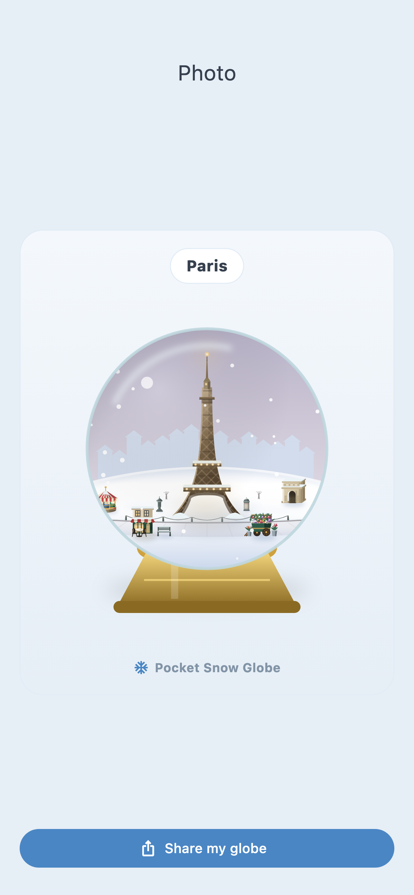
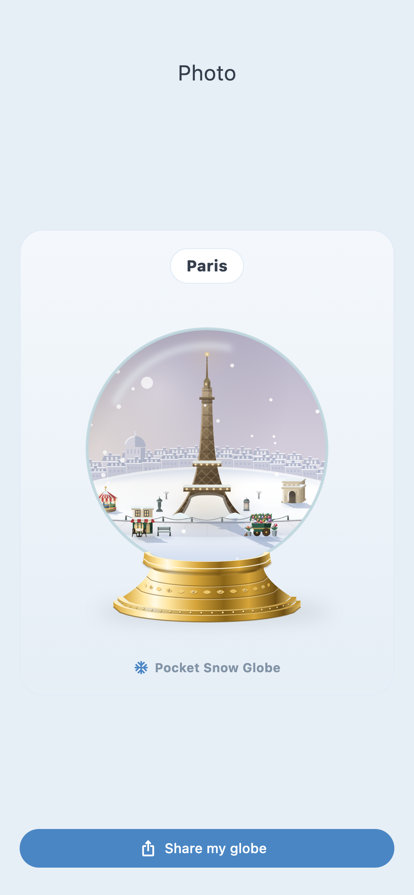
Pocket Snow Globe: Prague replaces Birmingham, current screenshots
The globe list swaps Birmingham (held out of the game until Vulcan is
licensed) for Prague, and adds Asgard and the Bavarian castle, so it
matches the twenty globes now in the game. The three screenshots are
re-rendered from the game: the new stands, Prague and the reworked New
York tower in My Globes, no Vulcan.

diff --git a/pocket-snow-globe.html b/pocket-snow-globe.html
@@ -59,9 +59,10 @@
   <h2>Twenty little worlds</h2>
   <ul>
     <li><b>Holiday globes, real places and imagined ones.</b> A toymaker's
-    workshop and a Christmas market lit up at night. Paris, London, New York,
-    Tokyo, Rome, Cairo, New Orleans, San Francisco, Atlanta and Birmingham.
-    Then Atlantis, Avalon, Mount Olympus and El Dorado.</li>
+    workshop and a Christmas market lit up at night. Prague, Paris, London,
+    New York, Tokyo, Rome, Cairo, New Orleans, San Francisco, Atlanta and a
+    Bavarian castle. Then Atlantis, Avalon, Mount Olympus, Asgard and El
+    Dorado.</li>
     <li><b>Every scene is drawn in code.</b> Not one photograph, not one
     imported image — every tower, awning and drift is a shape placed by hand,
     which is why the snow settles on all of it properly.</li>
